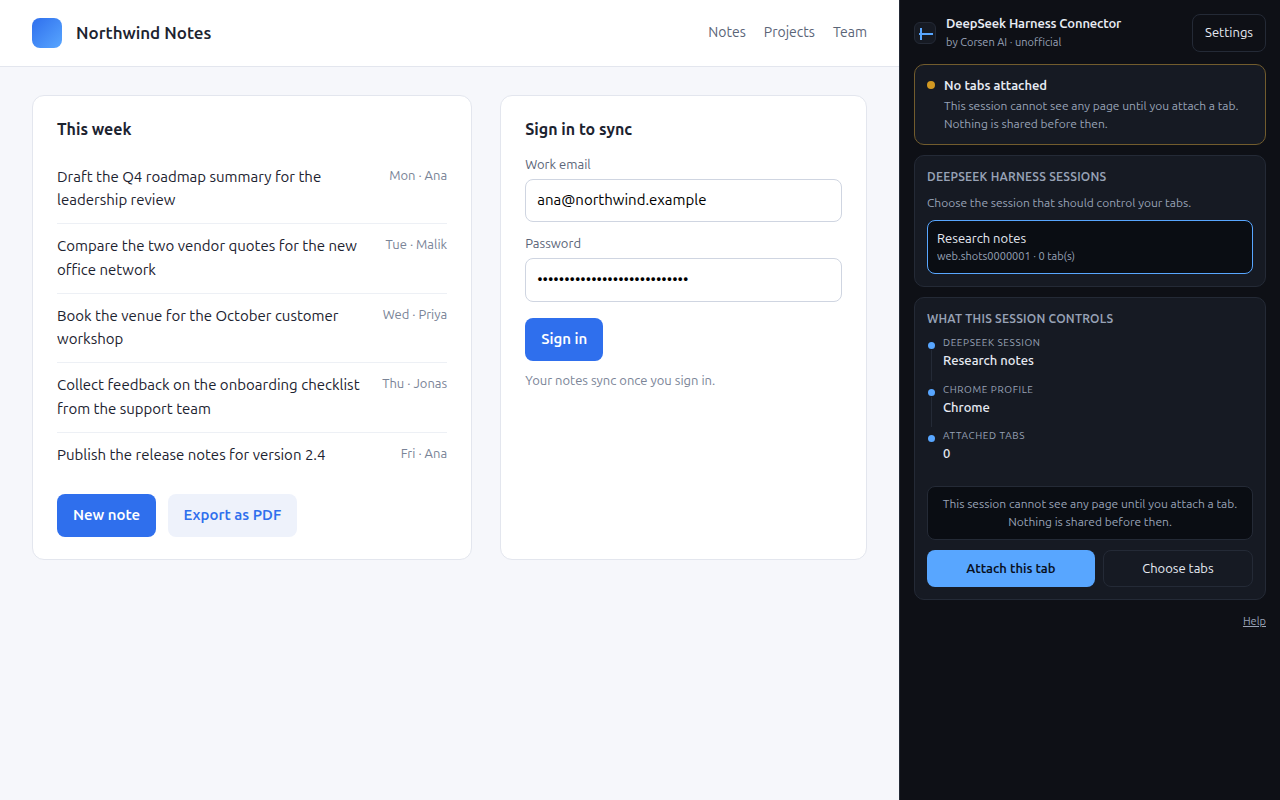
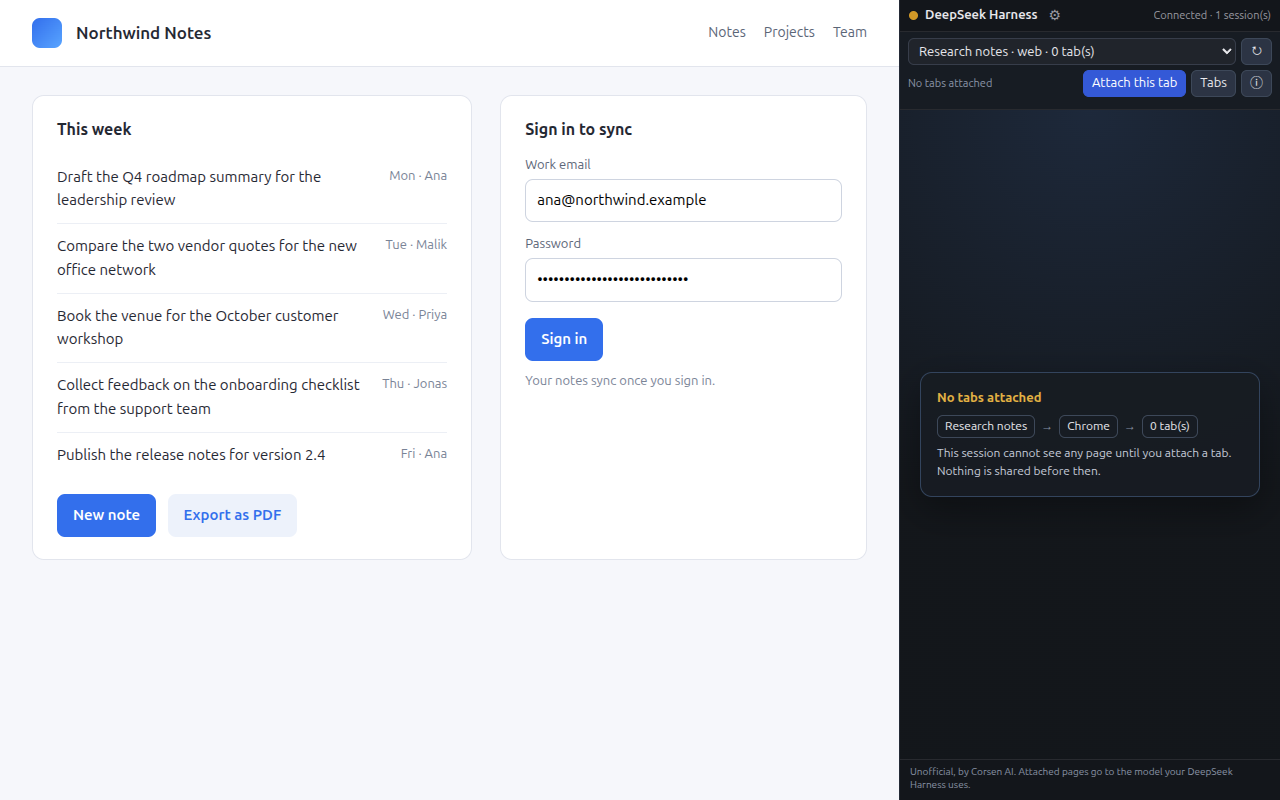
store: the five screenshots of the redrawn panel
Captured from the real extension with scripts/capture-screenshots.ts after the
panel took the Corsen connector layout; the asset list carries their sizes and
hashes. The promotional tiles are unchanged.

diff --git a/store/ASSETS.md b/store/ASSETS.md
@@ -40,19 +40,21 @@ mv store/screenshots/promo-*.png store/
 
 (Headed, under a display or `xvfb-run`; `DSH_E2E_HEADLESS=1` on a machine without one.)
 
-## Files, as committed on 2026-09-12 at the commit `git log -1 -- store/screenshots` names
+## Files, as committed on 2026-11-05 at the commit `git log -1 -- store/screenshots` names
 
-Screenshot 1 shows the setup card of the first run — the connector detected on the running
-broker's port, the two commands, and the pairing form — which is why its size grew on 2026-09-12;
-screenshots 3 and 4 differ from 2026-09-11 only in the fixture server's port.
+The panel was redrawn on 2026-11-05 in the layout Corsen's Hermes Connector uses: one status
+strip, one compact strip with the session and the tab it acts in, popovers for the tabs, the
+access notes and the settings, and a single card for the next step. Screenshots 1, 2, 3 and 5 show
+it; screenshot 4, the composed view of what a session receives, differs from 2026-09-12 only in the
+fixture server's port. The promotional tiles are unchanged since 2026-09-12.
 
 | File | Size | Bytes | SHA-256 |
 |---|---|---|---|
[12 lines of base64/hex data omitted]
 | `../extension/assets/icon-128.png` (Store icon) | 128×128 | — | generated by `scripts/make-icons.mjs`; the icon the extension ships |
